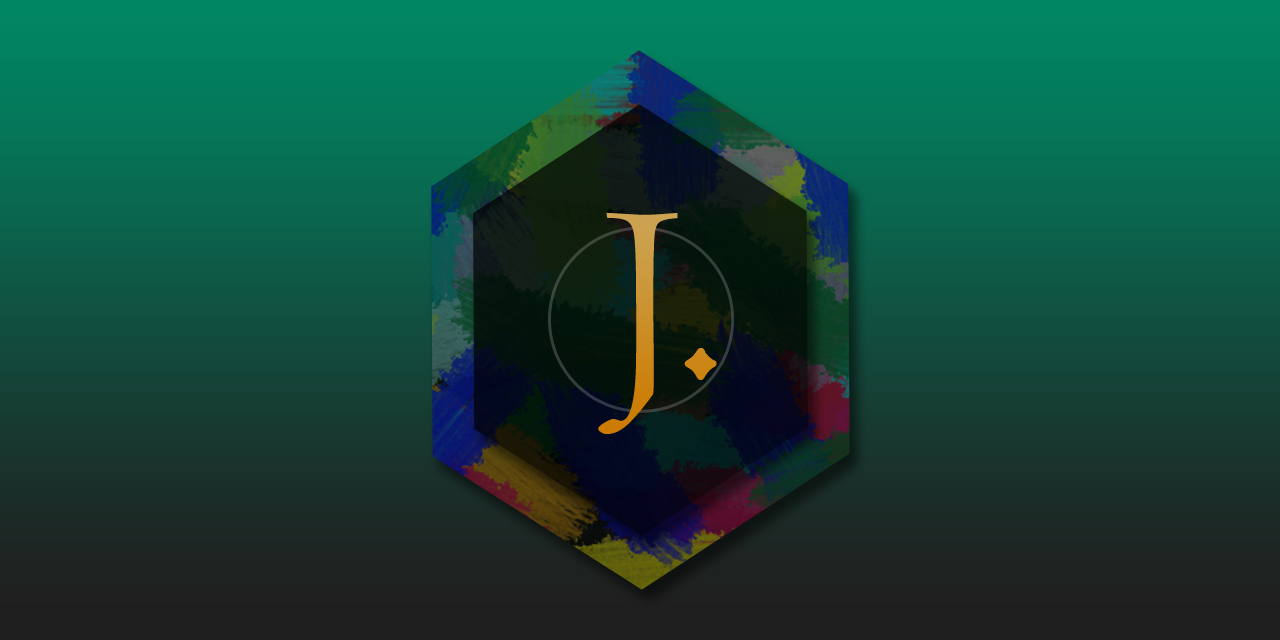
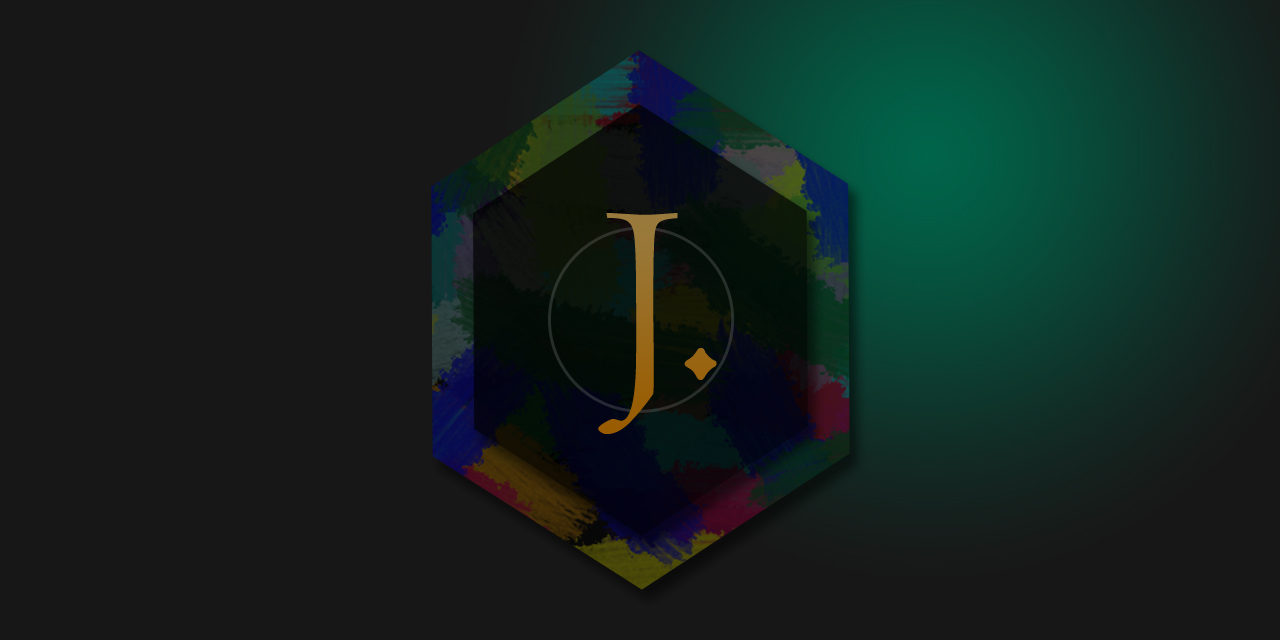
Add files via upload

diff --git a/index.html b/index.html
@@ -56,7 +56,7 @@
                         <a href="#" data-activates="slide-out" class="button-collapse hide"><i class="fa fa-bars" aria-hidden="true" style="font-size: 2em;"></i></a>
                         <div class="header-title center-align">
                             <p style="margin-bottom: 0;">Hi, I'm J.Hui</p>
-                            <p class="col s12">a <span id="typing_D"></span><span id="insert_D">|</span></p>
+                            <p class="col s12"> <span id="typing_D"></span><span id="insert_D">|</span></p>
                         </div>
                         <div class="frame-o one"></div>
                         <div class="frame-o two"></div>
@@ -70,8 +70,10 @@
                             <img src="Image/J_Icon.png">
                         </div>
                         <div class="card-content">
-                            <span class="card-title">HI !</span>
-                            <p>My name is J.Hui Lee. I have a passion for programming and UI/UX design.</p>
+                            <span class="card-title">Hello !</span>
+                            <p style="text-align:justify">My name's J.Hui Lee, currently living in Petaling Jaya, Malaysia. I've been in business since 2016 and work mainly with web development and design. I have a passion for programming and UI/UX design.</p><br />
+                              <p style="text-align:justify"> While I speciailze in software enginerring, I now also do a lot of work in web forms and resposive development. 
+                            Feel free to view my resume. If I sound fit for your position, don't hesitate to contact me !</p><br />
                             <p>Scroll down to learn more about <b>ME</b>.</p>
                         </div>
                     </div>

diff --git a/Style/custom_style.css b/Style/custom_style.css
@@ -16,7 +16,7 @@ html {
 .header-title p {
     font-weight:300;
     color:white;
-    font-size:72px;
+    font-size:40px;
     line-height:45px
 }
 .body_ {
@@ -33,7 +33,7 @@ html {
 .hi_ {
     background-color:transparent;
     font-family:Roboto;
-    font-size:18pt;
+  
     font-weight:300;
     color:white;
     box-shadow:none;
@@ -47,14 +47,14 @@ html {
 
 }
 #typing_D {
-    color:khaki;
-    font-size:40pt;
+    color:#1ef6bd;
+    font-size:32pt;
     font-weight:400;
 }
 .frame-o {
     height:150px;
     width:150px;
-    border:10px solid #EDDE5D;
+    border:10px solid #00503b;
     border-style:solid;
     color: #8adbcb;
     z-index:-1;
@@ -68,12 +68,13 @@ html {
     
 }
 .side-nav {
-    background-color:#004030;
+    background:  #2f2f2f;
+    border-left:1px solid #0f0f0f;
 }
 .side-nav .userView .background{
-    background: #DAE2F8;
-    background: -webkit-linear-gradient(to left,#008662, #1f1f1f);
-    background: linear-gradient(to left,  #008662, #1f1f1f );
+      background:  #008662;
+    background: -webkit-linear-gradient( #008662 ,#2f2f2f);
+    background: linear-gradient( #008662 ,#2f2f2f);
         
 }
 .title :first-letter{
@@ -135,13 +136,14 @@ html {
 .table-of-contents a.active {
     border-left:8px solid #00a87c;
     border-right:none;
-    background-color:rgba(255,255,255,0.1);
+    background-color:rgba(0,0,0,0.1);
     transition-duration:0.4s;
     padding-left:40px;
     color:white;
 }
 .table-of-contents a:hover {
      border-left:5px solid #008662;
+     background-color:rgba(39,39,39,0.1);
 }
 #ME>ul>li>a{
     margin-left:30px;

diff --git a/Scripts/initial_.js b/Scripts/initial_.js
@@ -43,10 +43,10 @@ function random_moving_boxes() {
     });
 
 }
-//var t_point = [0.8,0.0,0.0,0.8];
-//var l_point = [0.1, 0.1, 0.8, 0.8]; //4 angle
-var t_point = [0.8, 0.0, 0.8, 0.0];
-var l_point = [0.1, 0.1, 0.8, 0.8];
+var t_point = [0.8,0.0,0.0,0.8];
+var l_point = [0.1, 0.1, 0.8, 0.8]; //4 angle
+//var t_point = [0.8, 0.0, 0.8, 0.0];
+//var l_point = [0.1, 0.1, 0.8, 0.8];
 var active_ = true;
 function moving_boxes() {
     if (active_) {
@@ -115,6 +115,7 @@ function alertSize() {
         myHeight = document.body.clientHeight;
     }
     $(".resizeable").each(function (index) {
+           
         if (index != 0) {
             var cur_height = $(this).height();
             var pad = myHeight - cur_height;
@@ -125,6 +126,11 @@ function alertSize() {
         } else {
             $(this).css({
                 "height": myHeight + "px"
+            })
+            var cur_height = $(".header-title").height();
+            var pad = myHeight - cur_height;
+            $(".header-title").css({
+                "padding-top": pad*0.4 +"px"
             })
         }
     })

diff --git a/Scripts/letter_typing.js b/Scripts/letter_typing.js
@@ -1,6 +1,7 @@
 $(document).ready(function () {
     var i = 1;
     var typing_tmp = 'Developer.   Programmer.   Designer.';
+    //var typing_tmp = 'I'+"'"+'ve a passion for programming and UI/UX design.';
     var loop = true;
     function typing_D() {
         if (loop) {
